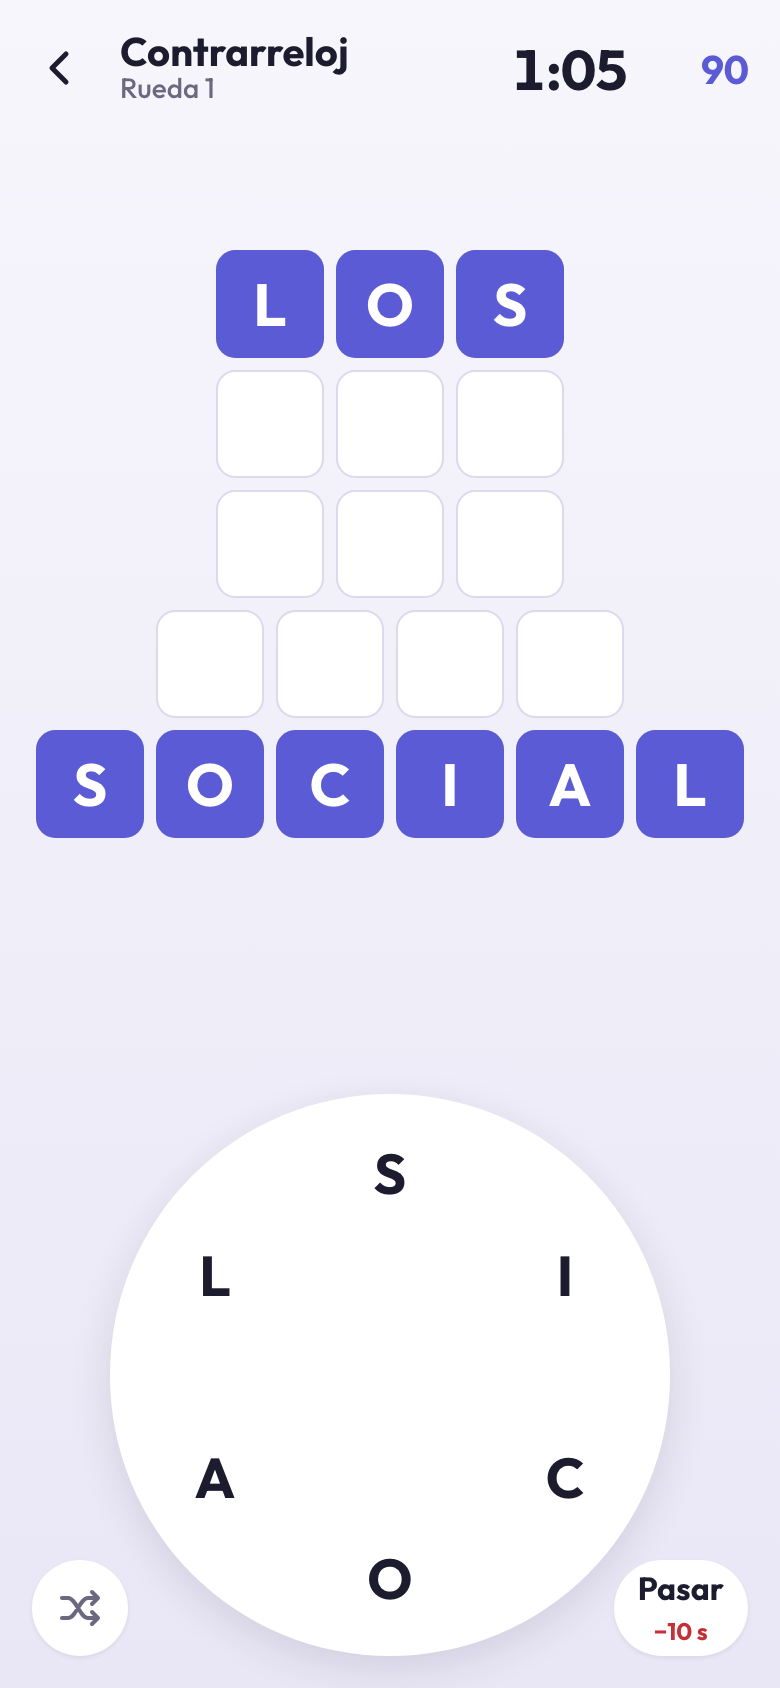
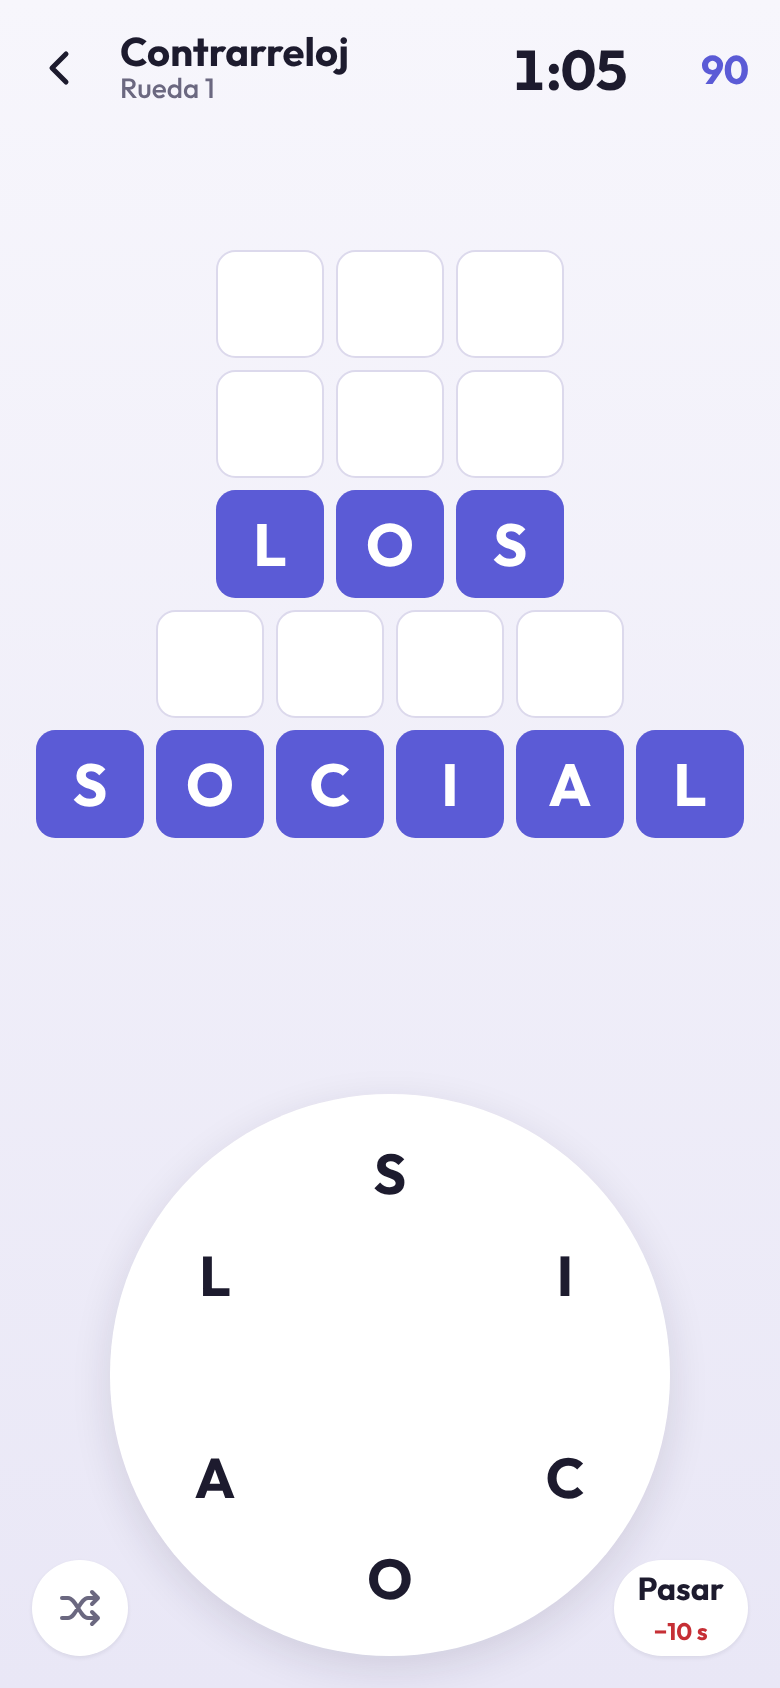
chore: e2e on PRs only, and guide screenshots for the alphabetical board (#87)
e2e and the docs build run on PRs only; a push to main runs check, then deploys, which builds the game, docs and guide itself (D22, amends D20). Guide screenshots jugando, contrarreloj and nivel-completo retaken for the alphabetical board (#86).

Claude-Session: https://claude.ai/code/session_013viqkGq2vdvebxjeaEat5e

Changed region(s): [[0.2769, 0.2773, 0.7385, 0.3697], [0.2769, 0.1232, 0.7385, 0.2156]]

diff --git a/docs/DECISIONS.md b/docs/DECISIONS.md
@@ -8,6 +8,16 @@ delete it, the history is the point.
 
 ---
 
+## D22 · On `main`, only `check` before deploying — 2026-10-19 · _amends D20_
+
+- **Decision:** e2e and the docs build run on PRs only. A push to `main` runs `check`
+  and deploys; the deploy builds the game, the docs and the guide itself, so a broken
+  build or link still stops it.
+- **Why:** a squash merge of a green PR ships the code that PR tested, so running e2e
+  again only delayed the deploy (about 4 minutes after merging instead of about 1).
+- **Costs accepted:** with no branch protection (D6), two PRs merged back to back are
+  never tested together; the next PR's e2e catches it.
+
 ## D21 · Board rows alphabetical, each word in a fixed row — 2026-10-19
 
 - **Decision:** within a length, board rows follow alphabetical order (`Ñ` after `N`),
@@ -17,11 +27,12 @@ delete it, the history is the point.
   3, the missing one comes before it). Before, rows filled in the order found to hide
   this; the slightly easier game is fine.
 
-## D20 · E2E in CI on every PR, Chromium and WebKit — 2026-10-19 · _replaces D10_
+## D20 · E2E in CI on every PR, Chromium and WebKit — 2026-10-19 · _replaces D10, amended by D22_
 
-- **Decision:** CI runs the Playwright suite on every PR and on `main`, against the
-  production build, in three projects: a touch phone (Chromium, real touch drags), an
-  iPhone (WebKit, Safari's engine) and a desktop. Deploying waits for it.
+- **Decision:** CI runs the Playwright suite on every PR (and, until D22, on `main`),
+  against the production build, in three projects: a touch phone (Chromium, real touch
+  drags), an iPhone (WebKit, Safari's engine) and a desktop. Deploying waited for it
+  until D22.
 - **Why:** the suite now guards flows we'd hate to break (drawing words, replays, the
   daily, the PWA), and two PRs once merged during a review without them. WebKit is how
   iPhones run the game; nothing else tested it.

diff --git a/docs/guides/working-on-it.md b/docs/guides/working-on-it.md
@@ -25,10 +25,10 @@ version.
 ## How changes are made
 
 One task from `docs/PLAN.md` per branch and PR, small enough to review in minutes. CI
-runs `check`, the e2e suite (Chromium and WebKit, D20) and builds both doc sites;
-merging to `main` deploys the game, the guide (`/grama/guia/`) and these docs
-(`/grama/docs/`) to GitHub Pages. Run `npm run e2e` locally too when a change touches
-input, flow or the PWA.
+runs `check`, the e2e suite (Chromium and WebKit, D20) and builds both doc sites on
+every PR; merging to `main` runs `check` again and deploys the game, the guide
+(`/grama/guia/`) and these docs (`/grama/docs/`) to GitHub Pages (D22). Run
+`npm run e2e` locally too when a change touches input, flow or the PWA.
 
 A non-obvious choice gets an entry in `docs/DECISIONS.md`; a rule change updates
 `docs/GAME.md` in the same PR; a change players notice may need the guide (`guide/`)

diff --git a/CLAUDE.md b/CLAUDE.md
@@ -9,7 +9,7 @@ Read these when the task needs them (they're not loaded up front):
 - `docs/GAME.md`: the rules and UX as they are. Read before changing gameplay or anything
   players see.
 - `docs/PLAN.md`: milestones and tasks; the next unchecked task is the work.
-- `docs/DECISIONS.md`: why things are the way they are (D1…D21).
+- `docs/DECISIONS.md`: why things are the way they are (D1…D22).
 - `docs/guides/`: how the code fits together (published at https://ewajs.github.io/grama/docs/).
 - `guide/`: the players' guide, "Todo sobre Grama" (Spanish, VitePress).
 
